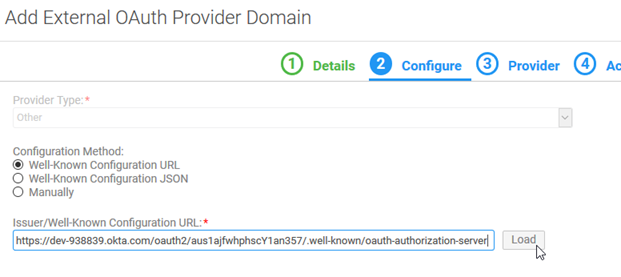
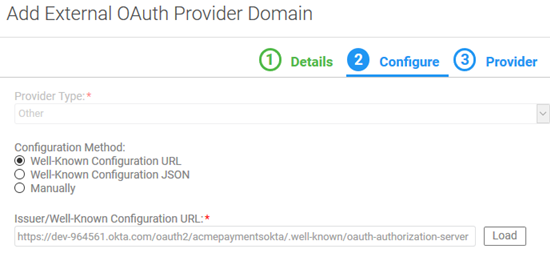
ATMO-29993 Test Client Okta use case mods

diff --git a/cm/learnmore/uc_tc_okta.htm b/cm/learnmore/uc_tc_okta.htm
@@ -7,9 +7,9 @@ category: learn
 sub-nav-class: API Admin
 weight: 2622
 type: page
-nav-title: Testing in Test Client with OAuth Provider Okta
+nav-title: Use Case - API testing in Test Client with Okta
 ---
-<h2 id="top">Use Case: Testing in Test Client with OAuth Provider Okta</h2>
+<h2 id="top">Use Case: API testing in Test Client with Okta</h2>
 <p>This use case provides step by step instructions, and illustrations, for testing your API in Test Client with OAuth. It includes instructions for configuring the app and the authentication server in Okta, configuring the Okta OAuth Provider domain in the developer portal, and setting up the app and API, so that you can test your API in Test Client using Okta as the OAuth Provider.</p>
 <div class = "divider1"></div>
 
@@ -80,13 +80,13 @@ nav-title: Testing in Test Client with OAuth Provider Okta
 	<li>Click <strong>Add Authorization Server</strong>.</li>
 	<li>In the <strong>Add Authorization Server</strong> window, set up the following values:
 		<ul>
-			<li><strong>Name</strong>: A unique name for your authorization server. Example: <strong>acmepaymentscorpoktaauthserver</strong>.</li>
+			<li><strong>Name</strong>: A unique name for your authorization server. Example: <strong>acmepaymentsokta</strong>.</li>
 			<li><strong>Audience</strong>: <strong>api://default</strong></li>
-			<li><strong>Description</strong>: a short description. In this example: <strong>acmepaymentscorp Okta auth server</strong>.</li>
+			<li><strong>Description (optional)</strong>: A short description. In this example: <strong>acmepaymentscorp Okta auth server</strong>.</li>
 		</ul>
 	</li>
 	<li>Click <strong>Save</strong>.</li>
-	<li>Copy the metadata URI. You'll use this to set up the API OAuth Details in the developer portal (see <a href="#uc_okta_dp_api_oauthdetails">Setting up the API OAuth Details</a> below). In this example: <strong>https://dev-964561.okta.com/oauth2/acmepaymentscorpoktaauthserver/.well-known/oauth-authorization-server</strong>.</li>
+	<li>Copy the metadata URI. You'll use this to set up the API OAuth Details in the developer portal (see <a href="#uc_okta_dp_api_oauthdetails">Setting up the API OAuth Details</a> below).</li>
 	<li>Click the <strong>Scopes</strong> tab.</li>
 	<li>Click <strong>Add Scope</strong> to add a custom scope, and specify the following values:
 		<ul>
@@ -119,12 +119,12 @@ nav-title: Testing in Test Client with OAuth Provider Okta
 	<li>Log into the developer portal as the Business Admin.</li>
 	<li>Choose <strong>Admin</strong> &gt; <strong>Domains</strong> and click <strong>Add</strong>.</li>
 	<li>Choose <strong>External OAuth Provider domain</strong>.</li>
-	<li>On Tab 1, <strong>Details</strong>, specify Name and Description.</li>
+	<li>On Tab 1, <strong>Details</strong>, specify a name. In this example: <strong>rcoaless_eoap_okta</strong>.</li>
 	<li>On Tab 2, <strong>Configure</strong>:
 		<ul>
 			<li>For <strong>Provider Type</strong>, choose <strong>Other</strong>.</li>
-			<li>Put in the well-known configuration URL from the authorization server you configured in your Okta account, and click <strong>Load</strong>, as shown below.
-				<p><img src="uc_okta_assets/uc_okta_dp_domain_tab2.png" alt="Domain setup: adding the configuration URL" /></p></li>
+			<li>Put in the well-known configuration URL from the authorization server you configured in your Okta account, and click <strong>Load</strong>, as shown below. In this example: <strong>https://dev-964561.okta.com/oauth2/acmepaymentsokta/.well-known/oauth-authorization-server.</strong>
+<p><img src="uc_okta_assets/uc_okta_dp_domain_tab2.png" alt="Domain setup: adding the configuration URL" /></p></li>
 			</ul>
 		</li>
 	
@@ -136,7 +136,7 @@ nav-title: Testing in Test Client with OAuth Provider Okta
 	<li>On Tab 4, <strong>Access Token Validation</strong>, check the <strong>JWT Bearer Access Token</strong> box.</li>
 	<li>Provide the following values:
 		<ul>
-			<li><strong>Issuer</strong>: the value from your Okta account, Authorization Server settings, Issuer field. Example: <strong>https://dev-964561.okta.com/oauth2/acmepaymentscorpoktaauthserver</strong>.</li>
+			<li><strong>Issuer</strong>: the value from your Okta account, Authorization Server settings, <strong>Issuer</strong> field. In this example: <strong>https://dev-964561.okta.com/oauth2/acmepaymentsokta</strong>.</li>
 			<li><strong>Audience</strong>: the value from your Okta account, Authorization Server settings, Audience field. In this example: <strong>api://default</strong>.</li>
 			<li><strong>ClientID Claim Name</strong>: cid</li>
 			<li><strong>Scope Claim Name</strong>: scp</li>
@@ -276,7 +276,7 @@ nav-title: Testing in Test Client with OAuth Provider Okta
 	<p><img src="uc_okta_assets/uc_okta_dp_tc_result.png" alt="Test Client: getting the OAuth token" /></p>
 	</li>
 </ol>
-<p>That's the end of the use case; OAuth was applied to the API call, and the developer portal validated the app credentials, called the OAuth provider, got the OAuth token, and used the OAuth token to get the API response from the API endpoint.</p>
+<p>That's the end of the use case. OAuth was applied to the API call, and the developer portal validated the app credentials, called the OAuth provider, got the OAuth token, and used the OAuth token to get the API response from the API endpoint.</p>
 <p>You could invoke the API a few times and look at the resulting metrics; see <a href="#uc_okta_dp_api_metrics">Viewing the API metrics</a> below. When testing your API with Test Client, it's a good idea to have the Detailed Auditing policy attached to the API, as in this example, so that you can look at the logs. In a live environment, in most cases, a Detailed Auditing policy would not be used.</p>
 <p>For general documentation about using Test Client, see <a href="api_admin_testing_tc.htm">API Testing with Test Client</a>.</p>
 <p><a href="#top">Back to top</a></p>
@@ -306,3 +306,40 @@ nav-title: Testing in Test Client with OAuth Provider Okta
 	<li>Look at the logs in API &gt; <strong>Analytics</strong> &gt; <strong>Logs</strong> in case you can see the error there: see <a href="#uc_okta_dp_api_metrics">Viewing the API metrics</a> above.</li>
 </ul>
 <p><a href="#top">Back to top</a></p>
+
+
+
+<div class = "divider1"></div>
+
+
+
+<h3 id="related_topics">Related Topics</h3>
+<div class="relatedlinks" id="api_admin"><!-- #BeginLibraryItem "/Library/relatedtopics_api_admin.lbi" -->
+<ul>
+	<li><a href="apiadmin_getting_started.htm">Getting Started for API Developers</a></li>
+	<li><a href="apiadmin_overview.htm">API Administration: Overview</a></li>
+	<li><a href="api_admin_tutorial.htm">Tutorial (API Provider)</a></li>
+	<li><a href="api_admin_management.htm">API Admin Management</a></li>
+	<li><a href="bus_api_admin_forum.htm">Forum Moderation</a></li>
+	<li><a href="apiadmin_promotion.htm">Promoting an API</a></li>
+</ul>
+<ul>
+	<li><a href="Library/apiadmin_api_add.htm">Adding an API</a></li>
+	<li><a href="Library/apiadmin_api_design.htm">Add or Modify an API Using API Designer</a></li>
+	<li><a href="Library/apiadmin_a_d_d_support.htm">API Description Language Support</a></li>
+	<li><a href="Library/apiadmin_implementations.htm">Manage API Implementations</a></li>
+	<li><a href="Library/api_admin_testing_tc.htm">API Testing with Test Client</a></li>
+	<li><a href="Library/uc_tc_okta.htm">Use Case: API testing in Test Client with Okta</a></li>
+	<li><a href="Library/api_admin_managing_contracts.htm">Managing Contracts for your API</a></li>
+	<li><a href="Library/api_admin_monitoring.htm">Monitoring API Analytics</a></li>
+</ul>
+<ul>
+	<li><a href="api_admin_api_publishing.htm">API Visibility, Licenses, and Settings</a></li>
+	<li><a href="apiadmin_api_phys_svc.htm">Working with Physical Services</a></li>
+	<li><a href="api_admin_oauth_support.htm">OAuth Support</a></li>
+	<li><a href="api_admin_content_guidelines.htm">Content Development Guidelines</a></li>
+	<li><a href="api_admin_documentation_maintenance.htm">API Documentation Maintenance</a></li>
+	<li><a href="api_admin_documentation_tagging.htm">API Documentation Tagging</a></li>
+	<li><a href="api_admin_legal_agreement_maintenance.htm">Legal Agreement Maintenance</a></li>
+	<li><a href="basics_glossary.htm">Glossary of Terms</a></li>
+</ul><!-- #EndLibraryItem --></div>

diff --git a/cm/learnmore/apiadmin_api_design.htm b/cm/learnmore/apiadmin_api_design.htm
@@ -981,8 +981,7 @@ For more information, see <a href="apiadmin_a_d_d_support.htm#swagger_responses_
 
 
 <h3 id="related_topics">Related Topics</h3>
-<div class="relatedlinks" id="api_admin">
-<!-- #BeginLibraryItem "/Library/relatedtopics_api_admin.lbi" -->
+<div class="relatedlinks" id="api_admin"><!-- #BeginLibraryItem "/Library/relatedtopics_api_admin.lbi" -->
 <ul>
 	<li><a href="apiadmin_getting_started.htm">Getting Started for API Developers</a></li>
 	<li><a href="apiadmin_overview.htm">API Administration: Overview</a></li>
@@ -997,6 +996,7 @@ For more information, see <a href="apiadmin_a_d_d_support.htm#swagger_responses_
 	<li><a href="apiadmin_a_d_d_support.htm">API Description Language Support</a></li>
 	<li><a href="apiadmin_implementations.htm">Manage API Implementations</a></li>
 	<li><a href="api_admin_testing_tc.htm">API Testing with Test Client</a></li>
+	<li><a href="uc_tc_okta.htm">Use Case: API testing in Test Client with Okta</a></li>
 	<li><a href="api_admin_managing_contracts.htm">Managing Contracts for your API</a></li>
 	<li><a href="api_admin_monitoring.htm">Monitoring API Analytics</a></li>
 </ul>
@@ -1009,5 +1009,4 @@ For more information, see <a href="apiadmin_a_d_d_support.htm#swagger_responses_
 	<li><a href="api_admin_documentation_tagging.htm">API Documentation Tagging</a></li>
 	<li><a href="api_admin_legal_agreement_maintenance.htm">Legal Agreement Maintenance</a></li>
 	<li><a href="basics_glossary.htm">Glossary of Terms</a></li>
-</ul><!-- #EndLibraryItem -->
-</div>
+</ul><!-- #EndLibraryItem --></div>

diff --git a/cm/learnmore/api_admin_documentation_maintenance.htm b/cm/learnmore/api_admin_documentation_maintenance.htm
@@ -976,8 +976,7 @@ Test Client testing tool&lt;/a&gt;.&lt;/p&gt;
 
 
 <h3 id="related_topics">Related Topics</h3>
-<div class="relatedlinks" id="api_admin">
-<!-- #BeginLibraryItem "/Library/relatedtopics_api_admin.lbi" -->
+<div class="relatedlinks" id="api_admin"><!-- #BeginLibraryItem "/Library/relatedtopics_api_admin.lbi" -->
 <ul>
 	<li><a href="apiadmin_getting_started.htm">Getting Started for API Developers</a></li>
 	<li><a href="apiadmin_overview.htm">API Administration: Overview</a></li>
@@ -992,6 +991,7 @@ Test Client testing tool&lt;/a&gt;.&lt;/p&gt;
 	<li><a href="apiadmin_a_d_d_support.htm">API Description Language Support</a></li>
 	<li><a href="apiadmin_implementations.htm">Manage API Implementations</a></li>
 	<li><a href="api_admin_testing_tc.htm">API Testing with Test Client</a></li>
+	<li><a href="uc_tc_okta.htm">Use Case: API testing in Test Client with Okta</a></li>
 	<li><a href="api_admin_managing_contracts.htm">Managing Contracts for your API</a></li>
 	<li><a href="api_admin_monitoring.htm">Monitoring API Analytics</a></li>
 </ul>
@@ -1004,5 +1004,4 @@ Test Client testing tool&lt;/a&gt;.&lt;/p&gt;
 	<li><a href="api_admin_documentation_tagging.htm">API Documentation Tagging</a></li>
 	<li><a href="api_admin_legal_agreement_maintenance.htm">Legal Agreement Maintenance</a></li>
 	<li><a href="basics_glossary.htm">Glossary of Terms</a></li>
-</ul><!-- #EndLibraryItem -->
-</div>
+</ul><!-- #EndLibraryItem --></div>

diff --git a/cm/learnmore/apiadmin_getting_started.htm b/cm/learnmore/apiadmin_getting_started.htm
@@ -115,8 +115,7 @@ nav-title: Getting Started for API Developers
 
 
 <h3 id="related_topics">Related Topics</h3>
-<div class="relatedlinks" id="api_admin">
-<!-- #BeginLibraryItem "/Library/relatedtopics_api_admin.lbi" -->
+<div class="relatedlinks" id="api_admin"><!-- #BeginLibraryItem "/Library/relatedtopics_api_admin.lbi" -->
 <ul>
 	<li><a href="apiadmin_getting_started.htm">Getting Started for API Developers</a></li>
 	<li><a href="apiadmin_overview.htm">API Administration: Overview</a></li>
@@ -131,6 +130,7 @@ nav-title: Getting Started for API Developers
 	<li><a href="apiadmin_a_d_d_support.htm">API Description Language Support</a></li>
 	<li><a href="apiadmin_implementations.htm">Manage API Implementations</a></li>
 	<li><a href="api_admin_testing_tc.htm">API Testing with Test Client</a></li>
+	<li><a href="uc_tc_okta.htm">Use Case: API testing in Test Client with Okta</a></li>
 	<li><a href="api_admin_managing_contracts.htm">Managing Contracts for your API</a></li>
 	<li><a href="api_admin_monitoring.htm">Monitoring API Analytics</a></li>
 </ul>
@@ -143,5 +143,4 @@ nav-title: Getting Started for API Developers
 	<li><a href="api_admin_documentation_tagging.htm">API Documentation Tagging</a></li>
 	<li><a href="api_admin_legal_agreement_maintenance.htm">Legal Agreement Maintenance</a></li>
 	<li><a href="basics_glossary.htm">Glossary of Terms</a></li>
-</ul><!-- #EndLibraryItem -->
-</div>
+</ul><!-- #EndLibraryItem --></div>

diff --git a/cm/learnmore/api_admin_content_guidelines.htm b/cm/learnmore/api_admin_content_guidelines.htm
@@ -854,8 +854,7 @@ and choose the API from the list.&lt;/p&gt;
 
 
 <h3 id="related_topics">Related Topics</h3>
-<div class="relatedlinks" id="api_admin">
-<!-- #BeginLibraryItem "/Library/relatedtopics_api_admin.lbi" -->
+<div class="relatedlinks" id="api_admin"><!-- #BeginLibraryItem "/Library/relatedtopics_api_admin.lbi" -->
 <ul>
 	<li><a href="apiadmin_getting_started.htm">Getting Started for API Developers</a></li>
 	<li><a href="apiadmin_overview.htm">API Administration: Overview</a></li>
@@ -870,6 +869,7 @@ and choose the API from the list.&lt;/p&gt;
 	<li><a href="apiadmin_a_d_d_support.htm">API Description Language Support</a></li>
 	<li><a href="apiadmin_implementations.htm">Manage API Implementations</a></li>
 	<li><a href="api_admin_testing_tc.htm">API Testing with Test Client</a></li>
+	<li><a href="uc_tc_okta.htm">Use Case: API testing in Test Client with Okta</a></li>
 	<li><a href="api_admin_managing_contracts.htm">Managing Contracts for your API</a></li>
 	<li><a href="api_admin_monitoring.htm">Monitoring API Analytics</a></li>
 </ul>
@@ -882,5 +882,4 @@ and choose the API from the list.&lt;/p&gt;
 	<li><a href="api_admin_documentation_tagging.htm">API Documentation Tagging</a></li>
 	<li><a href="api_admin_legal_agreement_maintenance.htm">Legal Agreement Maintenance</a></li>
 	<li><a href="basics_glossary.htm">Glossary of Terms</a></li>
-</ul><!-- #EndLibraryItem -->
-</div>
+</ul><!-- #EndLibraryItem --></div>

diff --git a/cm/learnmore/apiadmin_a_d_d_support.htm b/cm/learnmore/apiadmin_a_d_d_support.htm
@@ -297,8 +297,7 @@ nav-title: API Description Language Support
 
 
 <h3 id="related_topics">Related Topics</h3>
-<div class="relatedlinks" id="api_admin">
-<!-- #BeginLibraryItem "/Library/relatedtopics_api_admin.lbi" -->
+<div class="relatedlinks" id="api_admin"><!-- #BeginLibraryItem "/Library/relatedtopics_api_admin.lbi" -->
 <ul>
 	<li><a href="apiadmin_getting_started.htm">Getting Started for API Developers</a></li>
 	<li><a href="apiadmin_overview.htm">API Administration: Overview</a></li>
@@ -313,6 +312,7 @@ nav-title: API Description Language Support
 	<li><a href="apiadmin_a_d_d_support.htm">API Description Language Support</a></li>
 	<li><a href="apiadmin_implementations.htm">Manage API Implementations</a></li>
 	<li><a href="api_admin_testing_tc.htm">API Testing with Test Client</a></li>
+	<li><a href="uc_tc_okta.htm">Use Case: API testing in Test Client with Okta</a></li>
 	<li><a href="api_admin_managing_contracts.htm">Managing Contracts for your API</a></li>
 	<li><a href="api_admin_monitoring.htm">Monitoring API Analytics</a></li>
 </ul>
@@ -325,5 +325,4 @@ nav-title: API Description Language Support
 	<li><a href="api_admin_documentation_tagging.htm">API Documentation Tagging</a></li>
 	<li><a href="api_admin_legal_agreement_maintenance.htm">Legal Agreement Maintenance</a></li>
 	<li><a href="basics_glossary.htm">Glossary of Terms</a></li>
-</ul><!-- #EndLibraryItem -->
-</div>
+</ul><!-- #EndLibraryItem --></div>

diff --git a/cm/learnmore/apiadmin_api_phys_svc.htm b/cm/learnmore/apiadmin_api_phys_svc.htm
@@ -283,8 +283,7 @@ nav-title: Working with Physical Services
 
 
 <h3 id="related_topics">Related Topics</h3>
-<div class="relatedlinks" id="api_admin">
-<!-- #BeginLibraryItem "/Library/relatedtopics_api_admin.lbi" -->
+<div class="relatedlinks" id="api_admin"><!-- #BeginLibraryItem "/Library/relatedtopics_api_admin.lbi" -->
 <ul>
 	<li><a href="apiadmin_getting_started.htm">Getting Started for API Developers</a></li>
 	<li><a href="apiadmin_overview.htm">API Administration: Overview</a></li>
@@ -299,6 +298,7 @@ nav-title: Working with Physical Services
 	<li><a href="apiadmin_a_d_d_support.htm">API Description Language Support</a></li>
 	<li><a href="apiadmin_implementations.htm">Manage API Implementations</a></li>
 	<li><a href="api_admin_testing_tc.htm">API Testing with Test Client</a></li>
+	<li><a href="uc_tc_okta.htm">Use Case: API testing in Test Client with Okta</a></li>
 	<li><a href="api_admin_managing_contracts.htm">Managing Contracts for your API</a></li>
 	<li><a href="api_admin_monitoring.htm">Monitoring API Analytics</a></li>
 </ul>
@@ -311,5 +311,4 @@ nav-title: Working with Physical Services
 	<li><a href="api_admin_documentation_tagging.htm">API Documentation Tagging</a></li>
 	<li><a href="api_admin_legal_agreement_maintenance.htm">Legal Agreement Maintenance</a></li>
 	<li><a href="basics_glossary.htm">Glossary of Terms</a></li>
-</ul><!-- #EndLibraryItem -->
-</div>
+</ul><!-- #EndLibraryItem --></div>

diff --git a/cm/learnmore/apiadmin_implementations.htm b/cm/learnmore/apiadmin_implementations.htm
@@ -1056,8 +1056,7 @@ nav-title: Managing API Implementations
 
 
 <h3 id="related_topics">Related Topics</h3>
-<div class="relatedlinks" id="api_admin">
-<!-- #BeginLibraryItem "/Library/relatedtopics_api_admin.lbi" -->
+<div class="relatedlinks" id="api_admin"><!-- #BeginLibraryItem "/Library/relatedtopics_api_admin.lbi" -->
 <ul>
 	<li><a href="apiadmin_getting_started.htm">Getting Started for API Developers</a></li>
 	<li><a href="apiadmin_overview.htm">API Administration: Overview</a></li>
@@ -1072,6 +1071,7 @@ nav-title: Managing API Implementations
 	<li><a href="apiadmin_a_d_d_support.htm">API Description Language Support</a></li>
 	<li><a href="apiadmin_implementations.htm">Manage API Implementations</a></li>
 	<li><a href="api_admin_testing_tc.htm">API Testing with Test Client</a></li>
+	<li><a href="uc_tc_okta.htm">Use Case: API testing in Test Client with Okta</a></li>
 	<li><a href="api_admin_managing_contracts.htm">Managing Contracts for your API</a></li>
 	<li><a href="api_admin_monitoring.htm">Monitoring API Analytics</a></li>
 </ul>
@@ -1084,5 +1084,4 @@ nav-title: Managing API Implementations
 	<li><a href="api_admin_documentation_tagging.htm">API Documentation Tagging</a></li>
 	<li><a href="api_admin_legal_agreement_maintenance.htm">Legal Agreement Maintenance</a></li>
 	<li><a href="basics_glossary.htm">Glossary of Terms</a></li>
-</ul><!-- #EndLibraryItem -->
-</div>
+</ul><!-- #EndLibraryItem --></div>

diff --git a/cm/learnmore/api_admin_oauth_support.htm b/cm/learnmore/api_admin_oauth_support.htm
@@ -537,8 +537,7 @@ OAuth_Signature_Method: HMACSHA256</pre>
 
 
 <h3 id="related_topics">Related Topics</h3>
-<div class="relatedlinks" id="api_admin">
-<!-- #BeginLibraryItem "/Library/relatedtopics_api_admin.lbi" -->
+<div class="relatedlinks" id="api_admin"><!-- #BeginLibraryItem "/Library/relatedtopics_api_admin.lbi" -->
 <ul>
 	<li><a href="apiadmin_getting_started.htm">Getting Started for API Developers</a></li>
 	<li><a href="apiadmin_overview.htm">API Administration: Overview</a></li>
@@ -553,6 +552,7 @@ OAuth_Signature_Method: HMACSHA256</pre>
 	<li><a href="apiadmin_a_d_d_support.htm">API Description Language Support</a></li>
 	<li><a href="apiadmin_implementations.htm">Manage API Implementations</a></li>
 	<li><a href="api_admin_testing_tc.htm">API Testing with Test Client</a></li>
+	<li><a href="uc_tc_okta.htm">Use Case: API testing in Test Client with Okta</a></li>
 	<li><a href="api_admin_managing_contracts.htm">Managing Contracts for your API</a></li>
 	<li><a href="api_admin_monitoring.htm">Monitoring API Analytics</a></li>
 </ul>
@@ -565,5 +565,4 @@ OAuth_Signature_Method: HMACSHA256</pre>
 	<li><a href="api_admin_documentation_tagging.htm">API Documentation Tagging</a></li>
 	<li><a href="api_admin_legal_agreement_maintenance.htm">Legal Agreement Maintenance</a></li>
 	<li><a href="basics_glossary.htm">Glossary of Terms</a></li>
-</ul><!-- #EndLibraryItem -->
-</div>
+</ul><!-- #EndLibraryItem --></div>

diff --git a/cm/learnmore/api_admin_legal_agreement_maintenance.htm b/cm/learnmore/api_admin_legal_agreement_maintenance.htm
@@ -146,8 +146,7 @@ nav-title: Legal Agreement Maintenance
 
 
 <h3 id="related_topics">Related Topics</h3>
-<div class="relatedlinks" id="api_admin">
-<!-- #BeginLibraryItem "/Library/relatedtopics_api_admin.lbi" -->
+<div class="relatedlinks" id="api_admin"><!-- #BeginLibraryItem "/Library/relatedtopics_api_admin.lbi" -->
 <ul>
 	<li><a href="apiadmin_getting_started.htm">Getting Started for API Developers</a></li>
 	<li><a href="apiadmin_overview.htm">API Administration: Overview</a></li>
@@ -162,6 +161,7 @@ nav-title: Legal Agreement Maintenance
 	<li><a href="apiadmin_a_d_d_support.htm">API Description Language Support</a></li>
 	<li><a href="apiadmin_implementations.htm">Manage API Implementations</a></li>
 	<li><a href="api_admin_testing_tc.htm">API Testing with Test Client</a></li>
+	<li><a href="uc_tc_okta.htm">Use Case: API testing in Test Client with Okta</a></li>
 	<li><a href="api_admin_managing_contracts.htm">Managing Contracts for your API</a></li>
 	<li><a href="api_admin_monitoring.htm">Monitoring API Analytics</a></li>
 </ul>
@@ -174,5 +174,4 @@ nav-title: Legal Agreement Maintenance
 	<li><a href="api_admin_documentation_tagging.htm">API Documentation Tagging</a></li>
 	<li><a href="api_admin_legal_agreement_maintenance.htm">Legal Agreement Maintenance</a></li>
 	<li><a href="basics_glossary.htm">Glossary of Terms</a></li>
-</ul><!-- #EndLibraryItem -->
-</div>
+</ul><!-- #EndLibraryItem --></div>

diff --git a/cm/learnmore/api_admin_tutorial.htm b/cm/learnmore/api_admin_tutorial.htm
@@ -137,8 +137,7 @@ nav-title: Tutorial (API Provider)
 
 
 <h3 id="related_topics">Related Topics</h3>
-<div class="relatedlinks" id="api_admin">
-<!-- #BeginLibraryItem "/Library/relatedtopics_api_admin.lbi" -->
+<div class="relatedlinks" id="api_admin"><!-- #BeginLibraryItem "/Library/relatedtopics_api_admin.lbi" -->
 <ul>
 	<li><a href="apiadmin_getting_started.htm">Getting Started for API Developers</a></li>
 	<li><a href="apiadmin_overview.htm">API Administration: Overview</a></li>
@@ -153,6 +152,7 @@ nav-title: Tutorial (API Provider)
 	<li><a href="apiadmin_a_d_d_support.htm">API Description Language Support</a></li>
 	<li><a href="apiadmin_implementations.htm">Manage API Implementations</a></li>
 	<li><a href="api_admin_testing_tc.htm">API Testing with Test Client</a></li>
+	<li><a href="uc_tc_okta.htm">Use Case: API testing in Test Client with Okta</a></li>
 	<li><a href="api_admin_managing_contracts.htm">Managing Contracts for your API</a></li>
 	<li><a href="api_admin_monitoring.htm">Monitoring API Analytics</a></li>
 </ul>
@@ -165,5 +165,4 @@ nav-title: Tutorial (API Provider)
 	<li><a href="api_admin_documentation_tagging.htm">API Documentation Tagging</a></li>
 	<li><a href="api_admin_legal_agreement_maintenance.htm">Legal Agreement Maintenance</a></li>
 	<li><a href="basics_glossary.htm">Glossary of Terms</a></li>
-</ul><!-- #EndLibraryItem -->
-</div>
+</ul><!-- #EndLibraryItem --></div>

diff --git a/cm/learnmore/api_admin_management.htm b/cm/learnmore/api_admin_management.htm
@@ -116,8 +116,7 @@ nav-title: API Admin Management
 
 
 <h3 id="related_topics">Related Topics</h3>
-<div class="relatedlinks" id="api_admin">
-<!-- #BeginLibraryItem "/Library/relatedtopics_api_admin.lbi" -->
+<div class="relatedlinks" id="api_admin"><!-- #BeginLibraryItem "/Library/relatedtopics_api_admin.lbi" -->
 <ul>
 	<li><a href="apiadmin_getting_started.htm">Getting Started for API Developers</a></li>
 	<li><a href="apiadmin_overview.htm">API Administration: Overview</a></li>
@@ -132,6 +131,7 @@ nav-title: API Admin Management
 	<li><a href="apiadmin_a_d_d_support.htm">API Description Language Support</a></li>
 	<li><a href="apiadmin_implementations.htm">Manage API Implementations</a></li>
 	<li><a href="api_admin_testing_tc.htm">API Testing with Test Client</a></li>
+	<li><a href="uc_tc_okta.htm">Use Case: API testing in Test Client with Okta</a></li>
 	<li><a href="api_admin_managing_contracts.htm">Managing Contracts for your API</a></li>
 	<li><a href="api_admin_monitoring.htm">Monitoring API Analytics</a></li>
 </ul>
@@ -144,5 +144,4 @@ nav-title: API Admin Management
 	<li><a href="api_admin_documentation_tagging.htm">API Documentation Tagging</a></li>
 	<li><a href="api_admin_legal_agreement_maintenance.htm">Legal Agreement Maintenance</a></li>
 	<li><a href="basics_glossary.htm">Glossary of Terms</a></li>
-</ul><!-- #EndLibraryItem -->
-</div>
+</ul><!-- #EndLibraryItem --></div>
